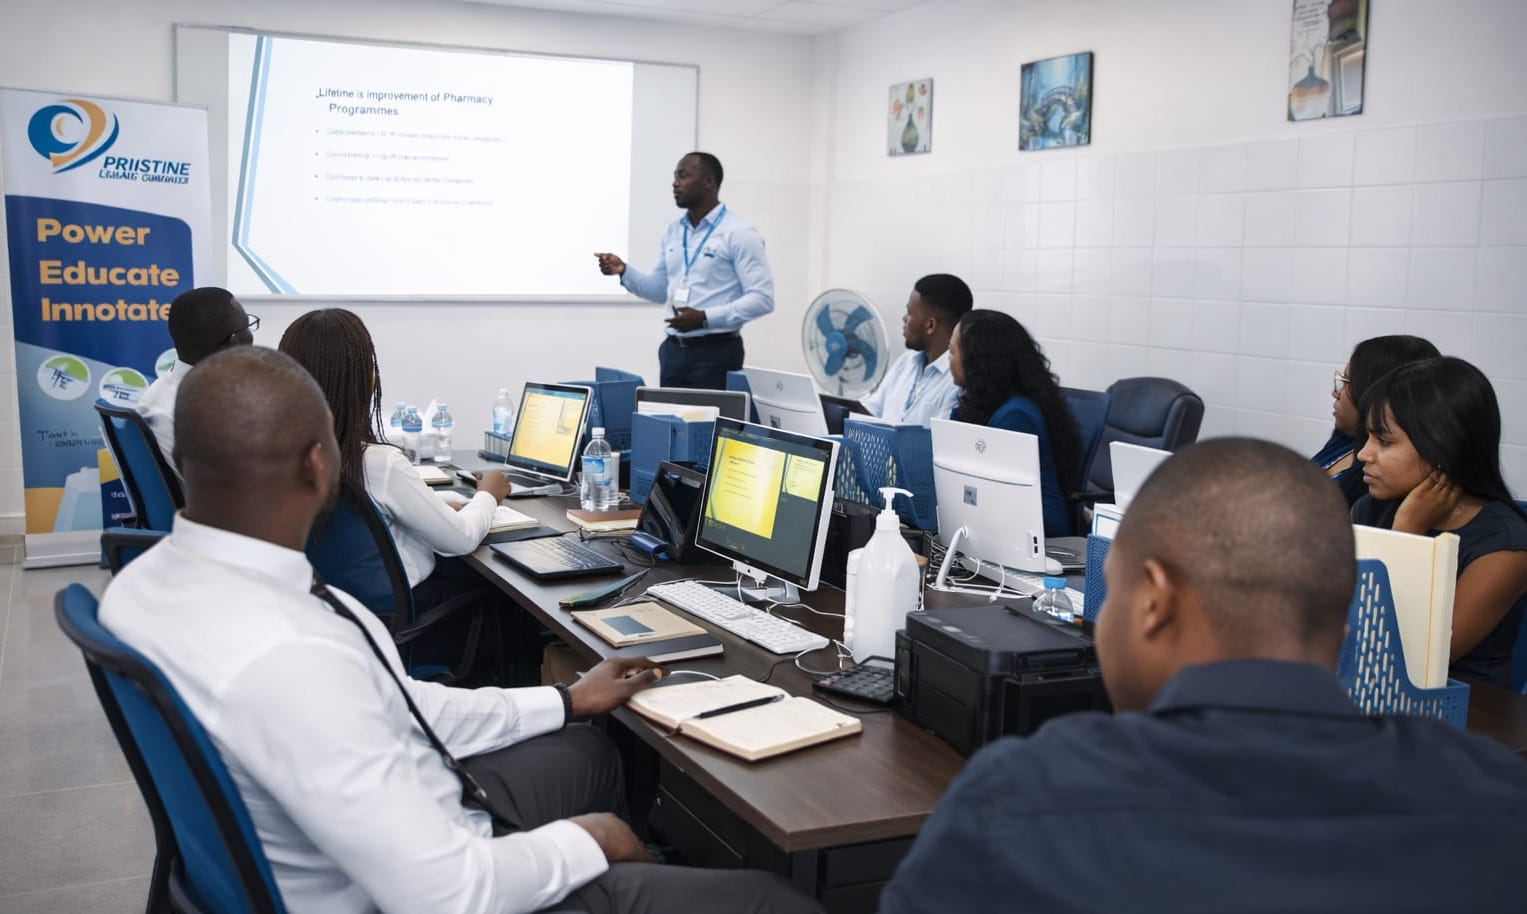
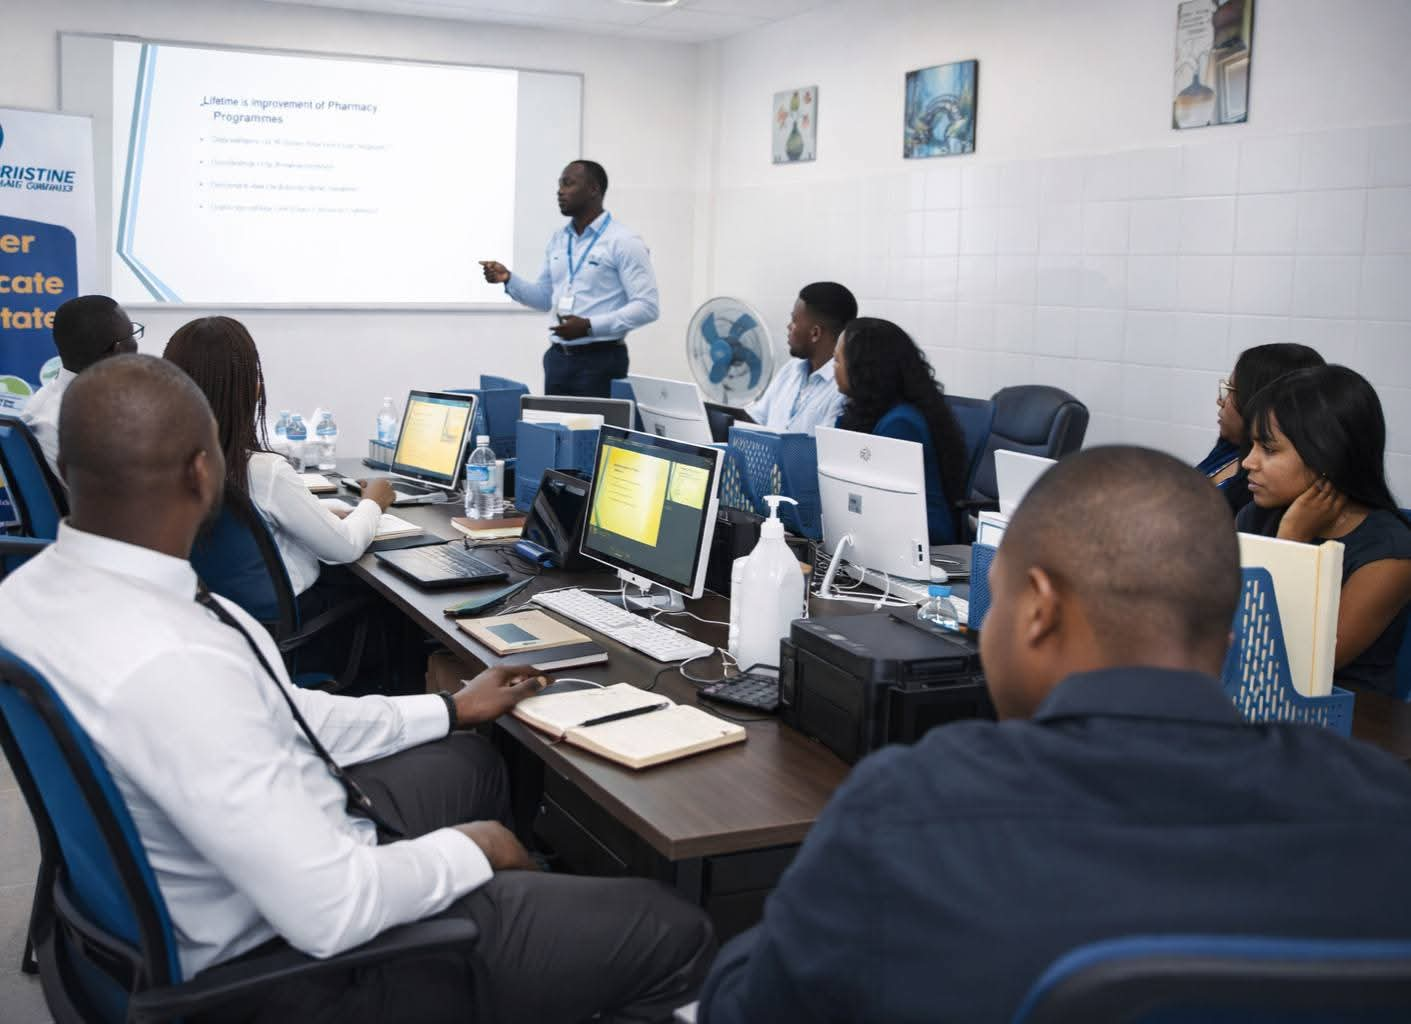
team member changes

diff --git a/prinstine-website/src/data/companyTeam.js b/prinstine-website/src/data/companyTeam.js
@@ -10,7 +10,7 @@ import jamesKolliePhoto from '../assets/james_kollie.jpeg';
 import marjoriePhoto from '../assets/marjorie_dyer.jpeg';
 import eshmealPhoto from '../assets/ashmeal_harris.jpeg';
 import princeGarkpahPhoto from '../assets/prince_garkpah.jpeg';
-import maePhoto from '../assets/mae_take.jpeg';
+import maePhoto from '../assets/mae_tah.jpeg';
 
 /** Full company team (About page grid + CEO on Home) */
 export const companyTeam = [
@@ -21,12 +21,12 @@ export const companyTeam = [
   { name: 'Constantine J. Vulue', title: 'Head — Prinstine Microfinance', image: constantinePhoto },
   { name: 'Sean J. Cole', title: 'Finance Officer', image: seanPhoto },
   { name: 'Samson Bryant', title: 'ICT Manager', image: samsonPhoto },
-  { name: 'William L. Buku', title: 'Head of Client Engagements', image: williamPhoto },
+  { name: 'William L. Buku, Jr.', title: 'Head of Client Engagements', image: williamPhoto },
   { name: 'James D. Kollie', title: 'Procurement Officer', image: jamesKolliePhoto },
   { name: 'Marjorie P. Dyer', title: 'Administrative Assistant', image: marjoriePhoto },
   { name: 'Eshmeal A. Harris', title: 'Finance Clerk', image: eshmealPhoto },
   { name: 'Prince W. Garkpah', title: 'Graphic Designer', image: princeGarkpahPhoto },
-  { name: 'Mae D. Take', title: 'Brand Ambassador', image: maePhoto },
+  { name: 'Mae D. Tah', title: 'Brand Ambassador', image: maePhoto },
 ];
 
 /** Home page carousel — everyone except CEO (shown in spotlight above) */
@@ -68,7 +68,7 @@ export const teamCarouselMembers = [
     image: samsonPhoto,
   },
   {
-    name: 'William L. Buku',
+    name: 'William L. Buku, Jr.',
     title: 'Head of Client Engagements',
     bio: 'Building strong client relationships and ensuring exceptional service delivery.',
     image: williamPhoto,
@@ -98,7 +98,7 @@ export const teamCarouselMembers = [
     image: princeGarkpahPhoto,
   },
   {
-    name: 'Mae D. Take',
+    name: 'Mae D. Tah',
     title: 'Brand Ambassador',
     bio: 'Representing Prinstine Group and promoting our mission in the community.',
     image: maePhoto,